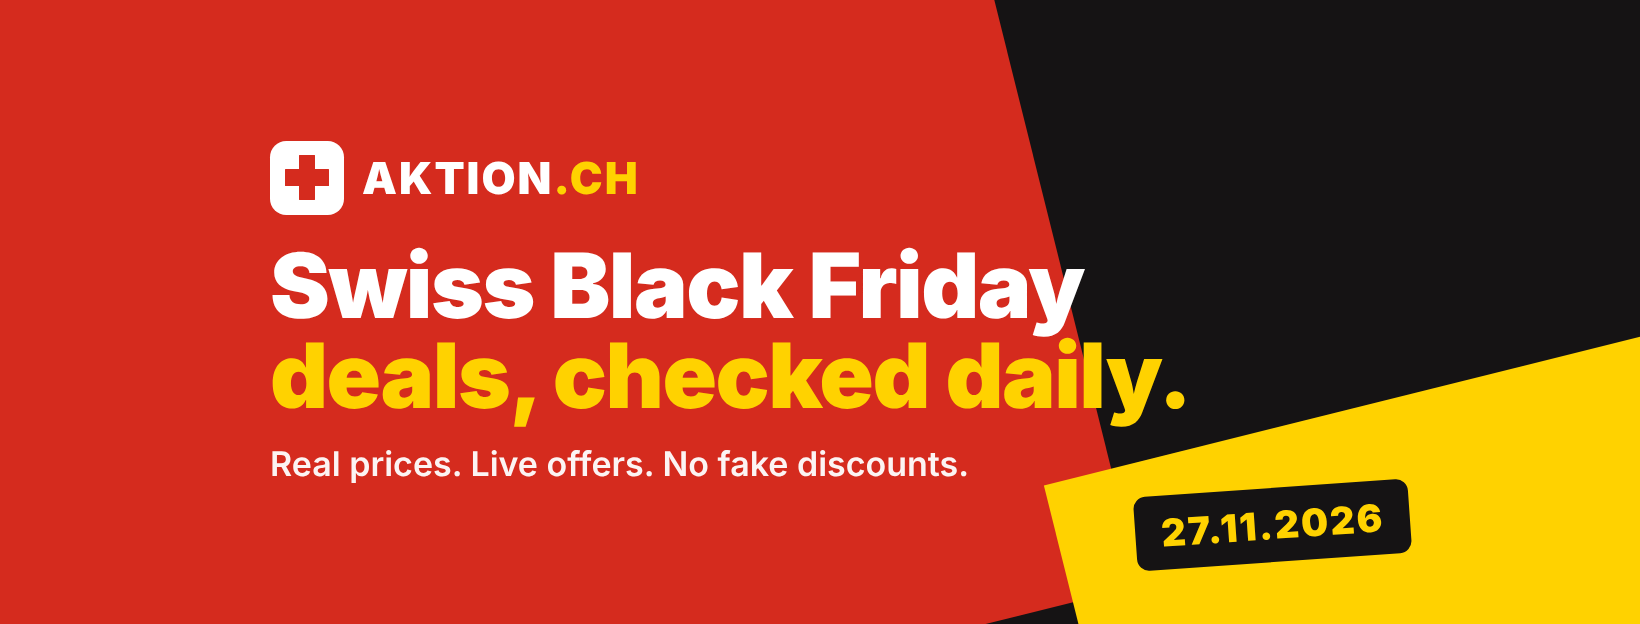
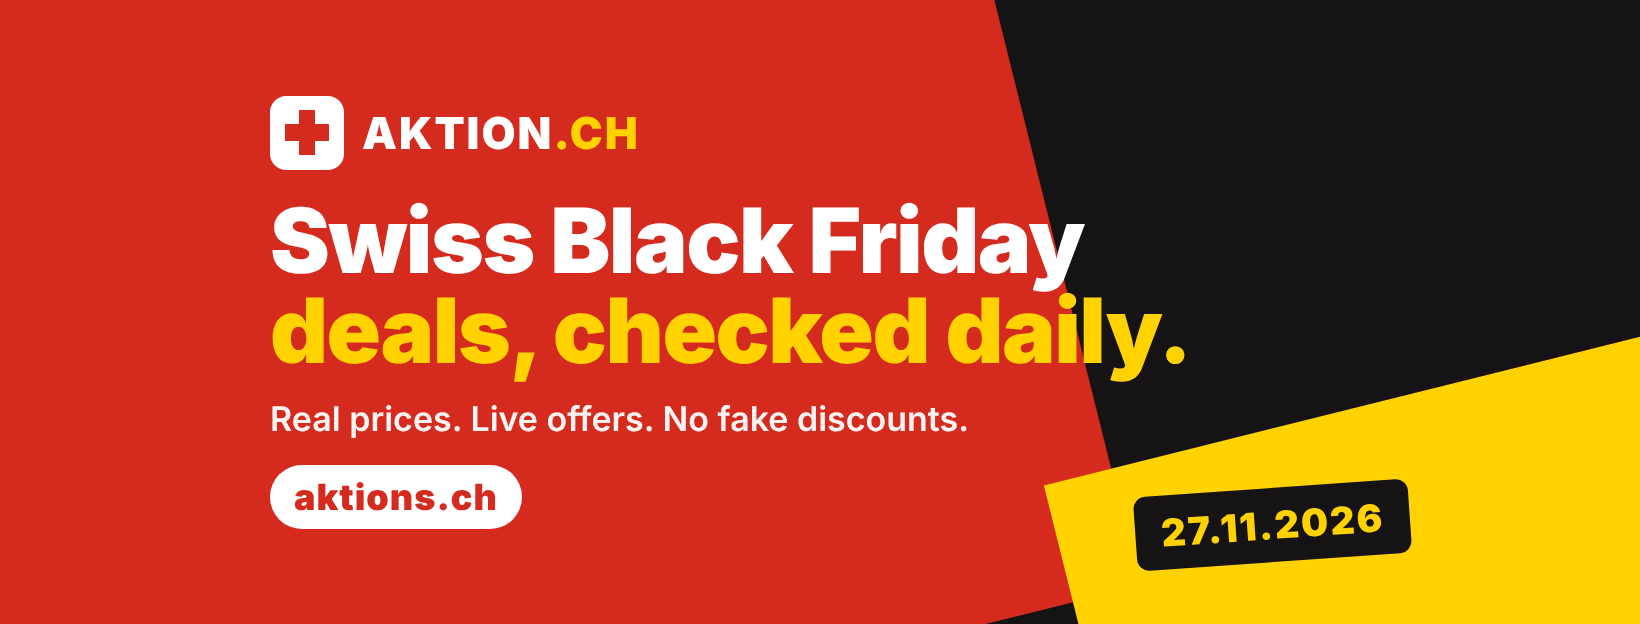
Facebook cover: add aktions.ch
Claude-Session: https://claude.ai/code/session_01FGdRmnhB3yNtpuD7yhkPMX

Changed region(s): [[0.1555, 0.1522, 0.7463, 0.7003], [0.1555, 0.7308, 0.5909, 0.8526]]

diff --git a/marketing/facebook/page.html b/marketing/facebook/page.html
@@ -23,6 +23,6 @@
 #cover h1 em{font-style:normal;color:#FFD200}
 #cover p{margin-top:22px;font-size:34px;font-weight:600;opacity:.95}
 #cover .date{position:absolute;right:230px;bottom:62px;background:#151314;color:#FFD200;padding:14px 26px;border-radius:12px;font-size:38px;font-weight:900;letter-spacing:2px;transform:rotate(-4deg)}
-</style>
+#cover .url{margin-top:26px;display:inline-block;align-self:flex-start;background:#fff;color:#D52B1E;padding:10px 24px;border-radius:999px;font-size:36px;font-weight:900;letter-spacing:1px}</style>
 <div id="profile"><div class="ring"></div><div class="box"><div class="big"></div><b>AKTION<i>.CH</i></b><span>BLACK FRIDAY</span></div></div>
-<div id="cover"><div class="band"></div><div class="band2"></div><div class="in"><div class="brand"><div class="cross"></div><span>AKTION<i>.CH</i></span></div><h1>Swiss Black Friday<br><em>deals, checked daily.</em></h1><p>Real prices. Live offers. No fake discounts.</p></div><div class="date">27.11.2026</div></div>
+<div id="cover"><div class="band"></div><div class="band2"></div><div class="in"><div class="brand"><div class="cross"></div><span>AKTION<i>.CH</i></span></div><h1>Swiss Black Friday<br><em>deals, checked daily.</em></h1><p>Real prices. Live offers. No fake discounts.</p><div class="url">aktions.ch</div></div><div class="date">27.11.2026</div></div>
